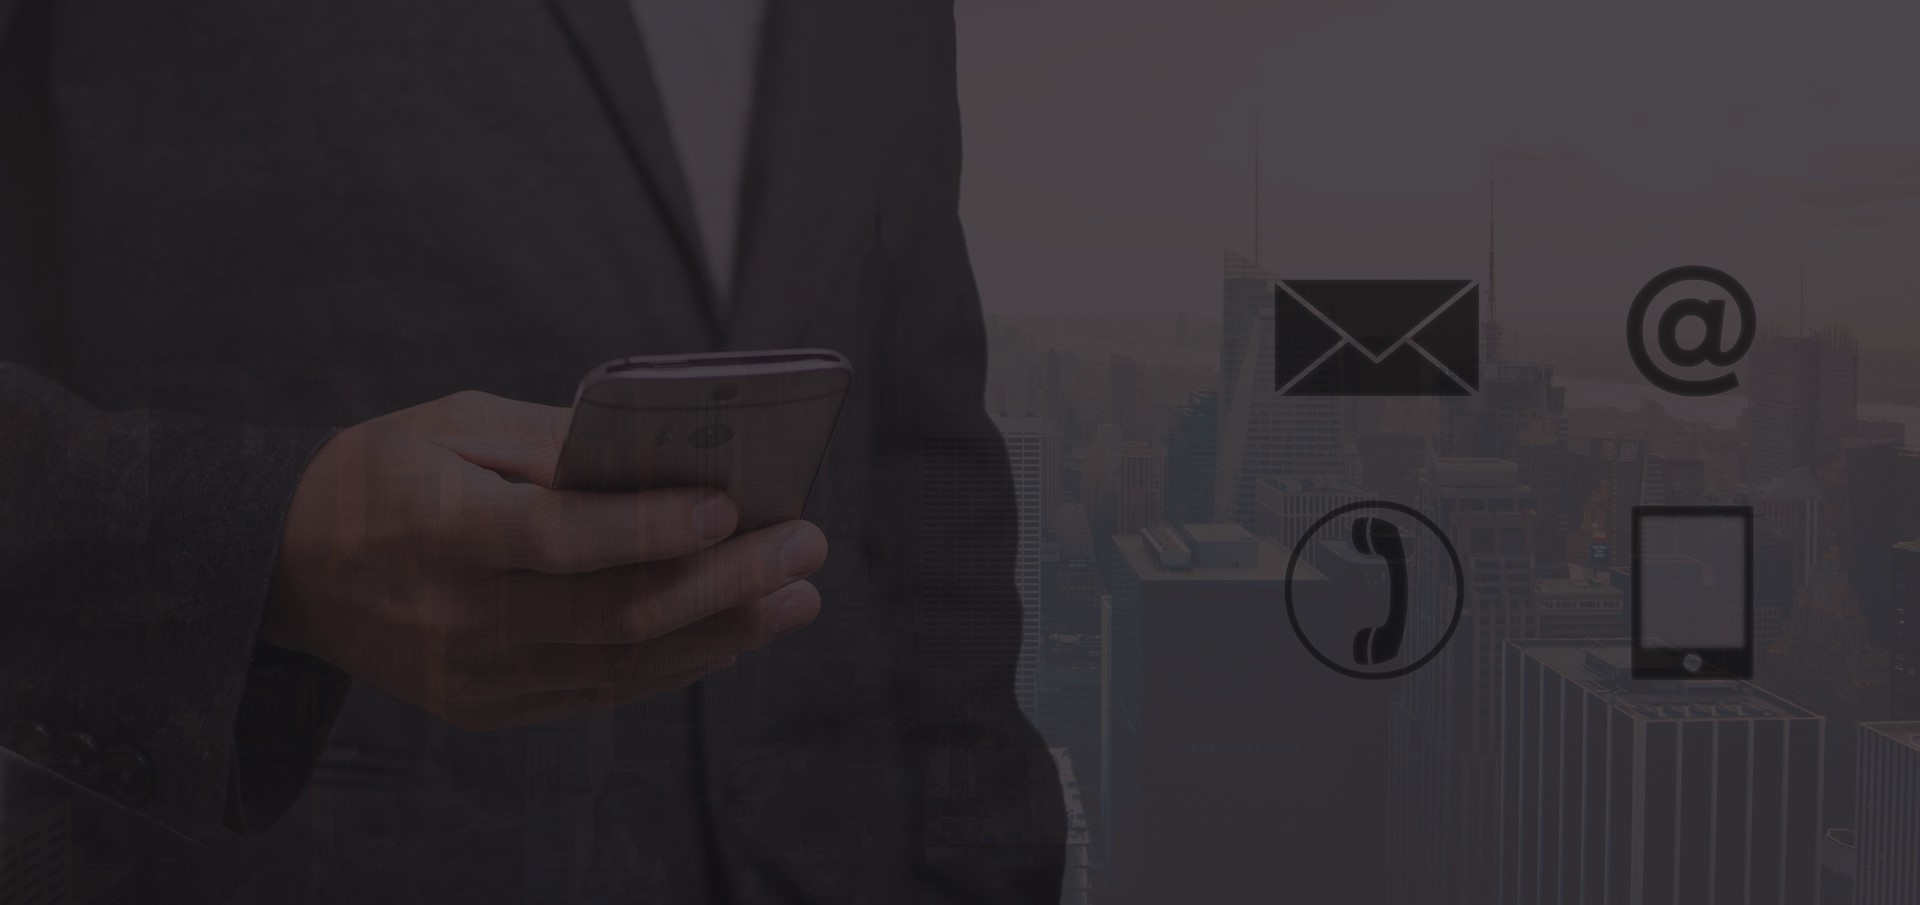
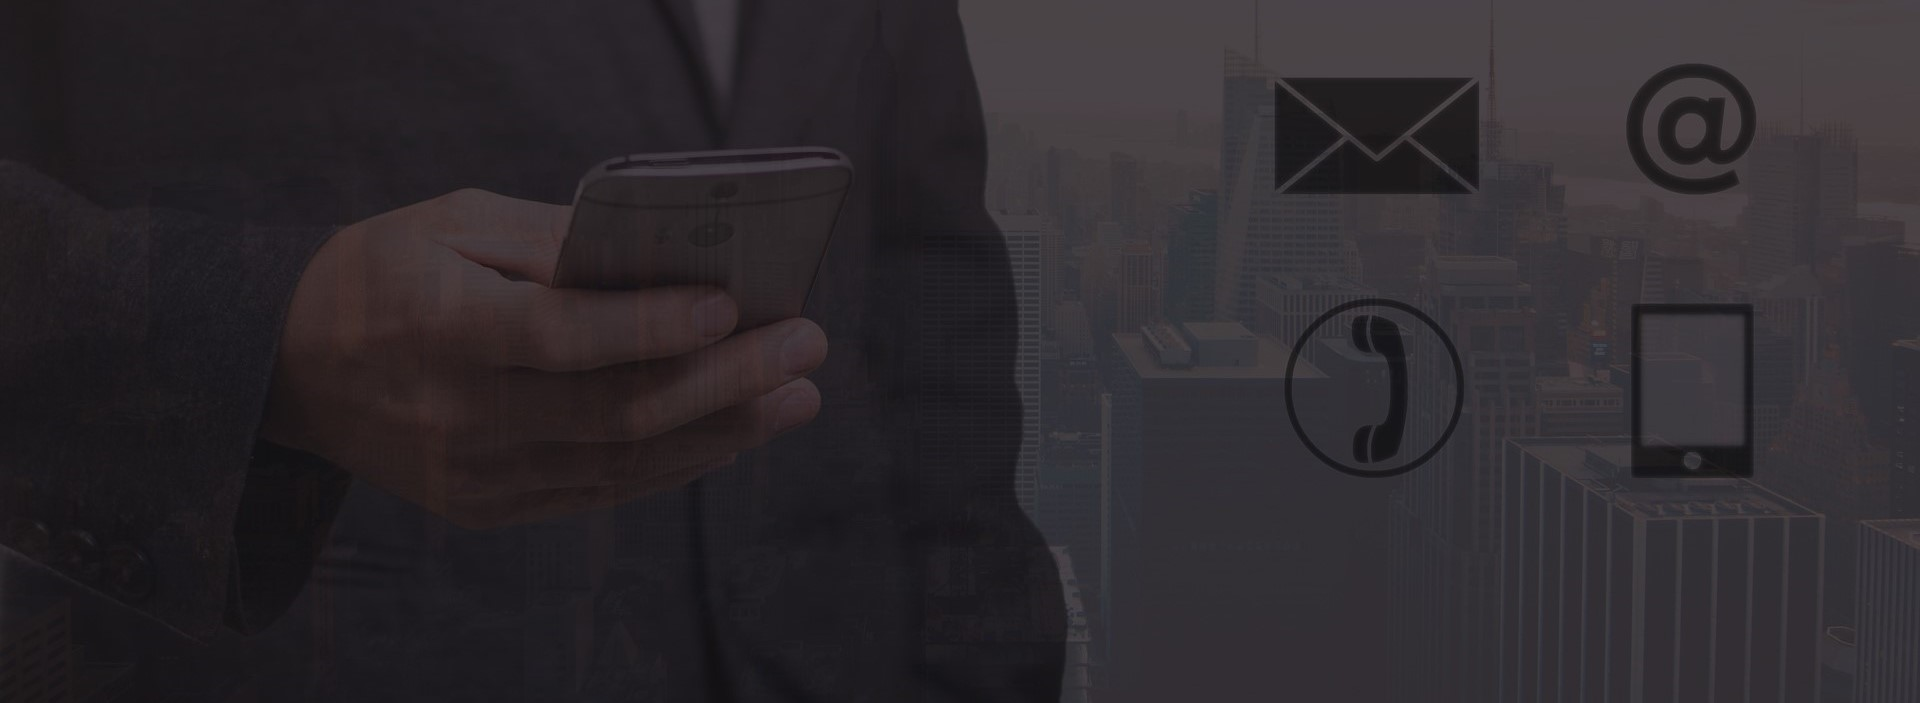
added stuff

diff --git a/src/HTML/Prueba.html b/src/HTML/Prueba.html
@@ -3,7 +3,7 @@
 <head>
     <meta charset="UTF-8">
     <meta name="viewport" content="width=device-width, initial-scale=1.0">
-    <title>INECO</title>
+    <title>INECO Soluciones en ingeniería electrica, electricidad</title>
     <link rel = "icon" href ="/assets/InfoLadino/LogoInecoEdit.png" type = "image/x-icon"> 
     <link rel="stylesheet" href="../CSS/Prueba.css">
     <link rel="stylesheet" href="../CSS/swiper.min.css">
@@ -154,6 +154,7 @@
             </div>
             <div class="CenterDown"></div>
         </div>
+        <div class="Experience"></div>
 
         <footer>
             <div class="Footer">
@@ -187,7 +188,7 @@
           loop: true,
           parallax: true,
           autoplay: {
-            delay: 7500,
+            delay: 6500,
             disableOnInteraction: false,
           },
           pagination: {

diff --git a/src/CSS/BrandStyle.css b/src/CSS/BrandStyle.css
@@ -196,10 +196,10 @@ background-color: #4c903b;
 .ImageContainer{
     grid-row: 7/13;
     grid-column: 1/28;
-    background-image: url(/assets/Body/contact.jpg);
+    background-image: url(/assets/Body/industry-2633878_1920.jpg);
     width: 100%;
     height: 300px;
-    background-size: 100% 100%;
+    background-size: cover;
 }
 .ImageContainer h1{
     margin-top: 90px;
@@ -457,6 +457,9 @@ footer{
     }
     .Brands_dev{
         grid-template-columns: repeat(1,1fr);
+    }
+    .MarcasText{
+        font-size: 13px;
     }
 
 }

diff --git a/src/HTML/Servicios.html b/src/HTML/Servicios.html
@@ -71,7 +71,7 @@
                 <h2>Contactenos</h2>
             </div>
         </a>
-        <a class="Servicios top"  href="/src/Servicios.html">
+        <a class="Servicios top"  href="/src/HTML/Servicios.html">
             <div class="Content_nav_in">
                 <h2>Servicios</h2>
             </div>
@@ -119,7 +119,6 @@
         <div class="LineCont2"></div>
         <div class="Main2">
             
-
         </div>
 
         <footer>

diff --git a/src/CSS/ProductosStyle.css b/src/CSS/ProductosStyle.css
@@ -195,10 +195,10 @@ background-color: #4c903b;
 .ImageContainer{
     grid-row: 7/13;
     grid-column: 1/28;
-    background-image: url(/assets/Body/contact.jpg);
+    background-image: url(/assets/Body/ecommerce-2140603_1920.jpg);
     width: 100%;
     height: 300px;
-    background-size: 100% 100%;
+    background-size: cover;
 }
 .ImageContainer h1{
     margin-top: 90px;

diff --git a/src/CSS/NosotrosStyle.css b/src/CSS/NosotrosStyle.css
@@ -195,10 +195,10 @@ background-color: #4c903b;
 .ImageContainer{
     grid-row: 7/13;
     grid-column: 1/28;
-    background-image: url(/assets/Body/contact.jpg);
+    background-image: url(/assets/Body/paper-3213924_1920.jpg);
     width: 100%;
     height: 300px;
-    background-size: 100% 100%;
+    background-size: cover;
 }
 .ImageContainer h1{
     margin-top: 90px;

diff --git a/src/HTML/Productos.html b/src/HTML/Productos.html
@@ -71,7 +71,7 @@
                 <h2>Marcas</h2>
             </div>
         </a>
-        <a class="Servicios top"  href="/src/Servicios.html">
+        <a class="Servicios top"  href="/src/HTML/Servicios.html">
             <div class="Content_nav_in">
                 <h2>Servicios</h2>
             </div>

diff --git a/src/PHP/Contact.css b/src/PHP/Contact.css
@@ -198,7 +198,7 @@ background-color: #4c903b;
     background-image: url(/assets/Body/contact.jpg);
     width: 100%;
     height: 300px;
-    background-size: 100% 100%;
+    background-size: cover;
 }
 .ImageContainer h1{
     margin-top: 90px;

diff --git a/src/HTML/Brands.html b/src/HTML/Brands.html
@@ -83,7 +83,7 @@
         </div>
 
         <div class="MarcasText">
-            <h1>Marcas</h1>
+            <h1>Marcas con las que trabajamos</h1>
         </div>
         <div class="LineBrand"></div>
         <div class="ContBrands">

diff --git a/src/CSS/Prueba.css b/src/CSS/Prueba.css
@@ -317,6 +317,12 @@ background-color: #4c903b;
     display: flex;
 }
 
+.Experience{
+    grid-row: 65/71;
+    grid-column: 1/29;
+    background-color: #333333;
+}
+
 
 
 footer{
